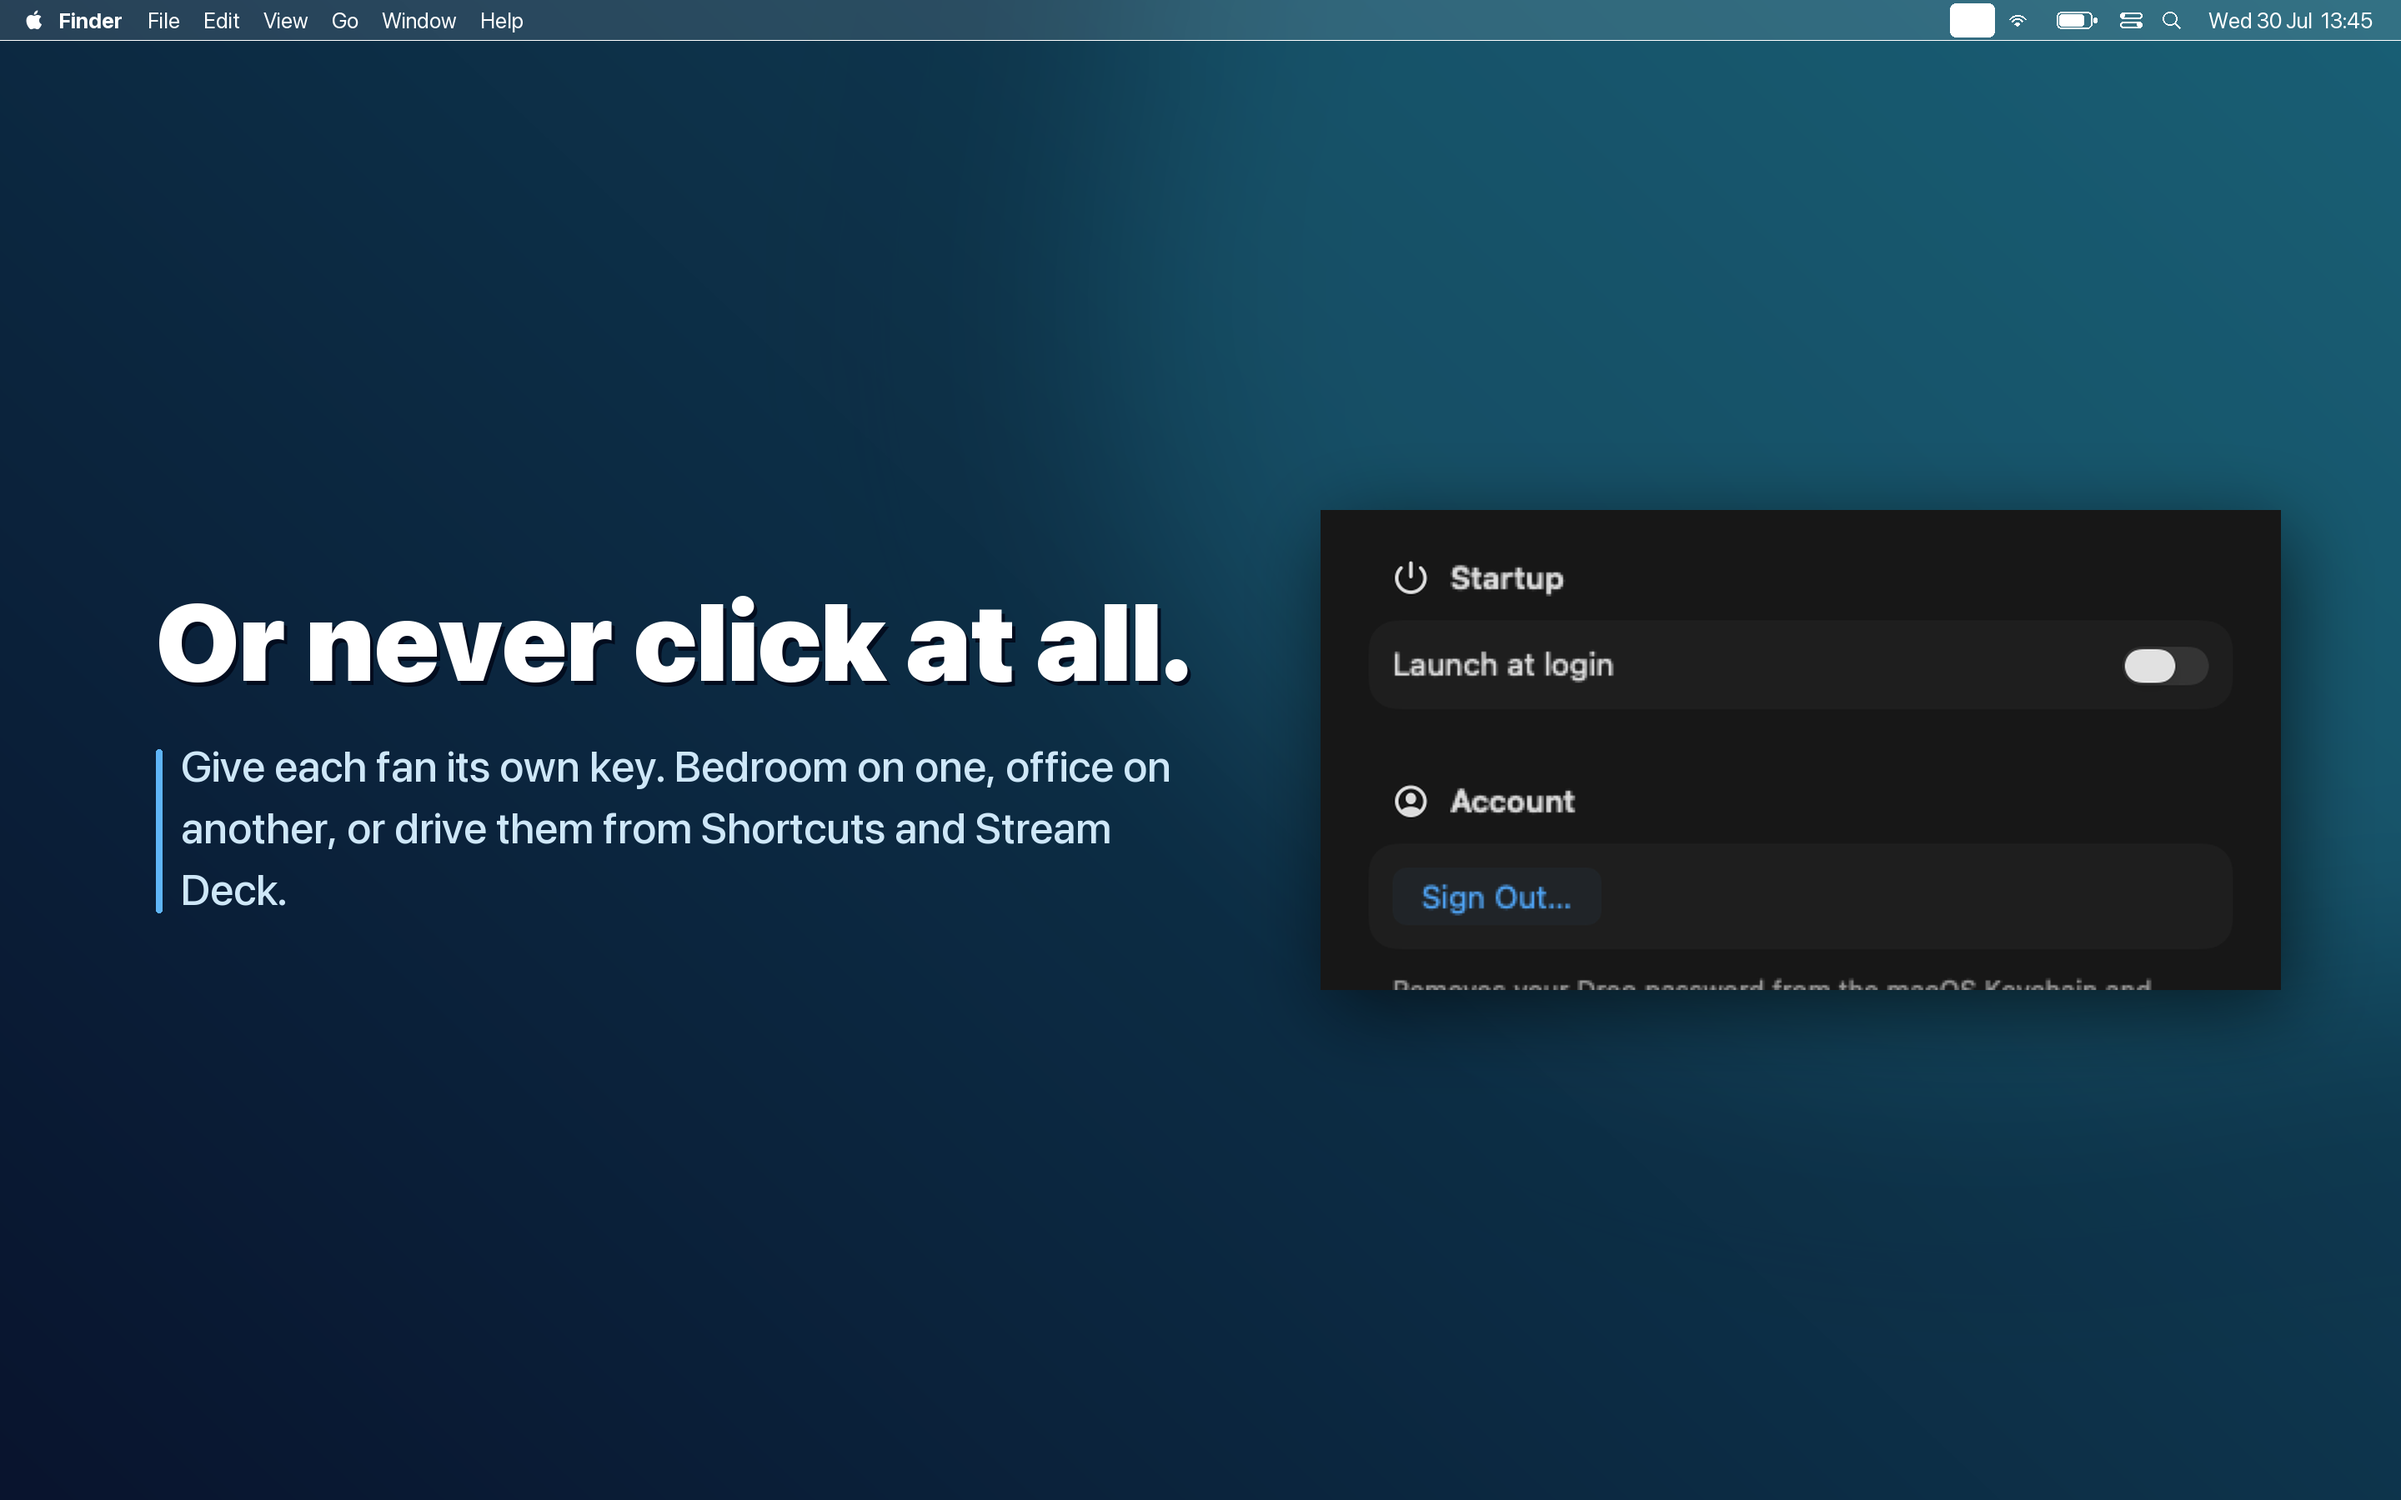
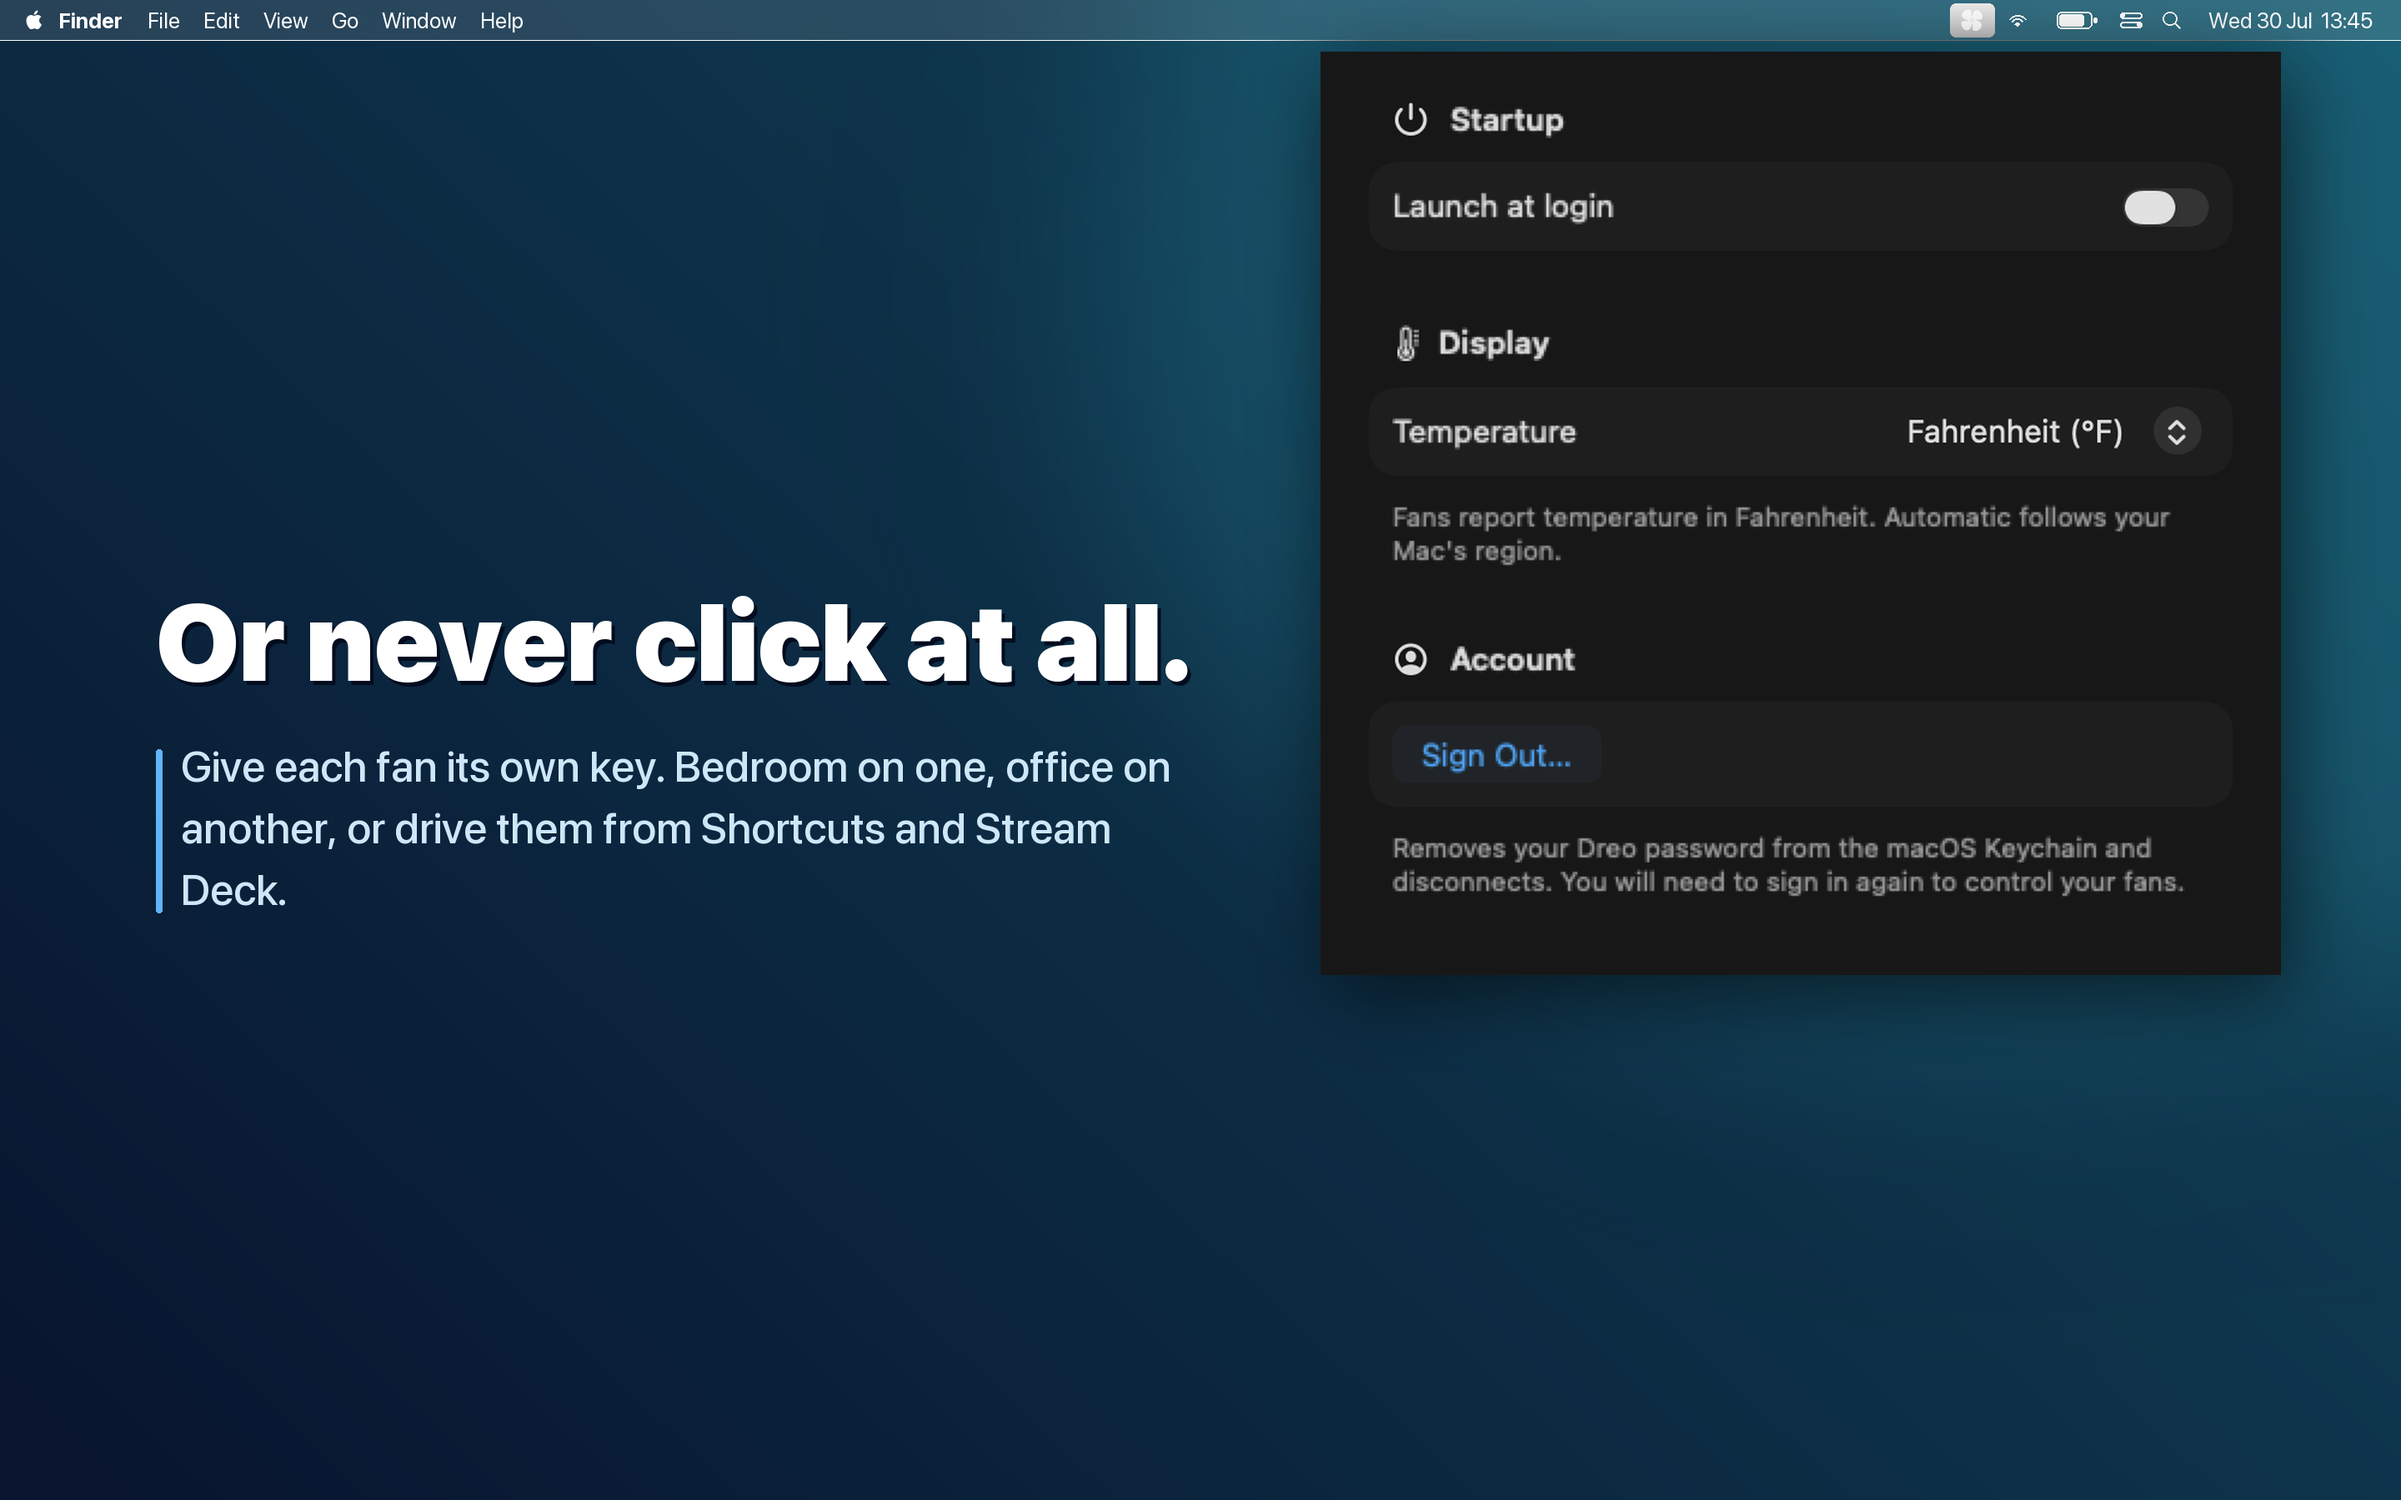
feat: choose between Celsius and Fahrenheit
Asked for on Reddit by a user whose fan reports a number with no unit on it.

Dreo sends `temperature` in Fahrenheit and documents that nowhere: there is no
unit field on the payload and no unit control in any device template. The
evidence is hass-dreo, the Home Assistant integration this project already
credits, which publishes the raw value as UnitOfTemperature.FAHRENHEIT and
converts nothing.

The default follows the Mac's region, so most people get the right scale
without opening Preferences, and the picker overrides it either way. The
reading now names its scale ("74°F", not "74°"), because a bare degree sign
next to a middot means one thing to an American and another to everyone else,
which is the ambiguity worth removing.

Conversion goes through Measurement/UnitTemperature rather than arithmetic
here, and rounds rather than truncates: truncation reads a degree low, and
below freezing it rounds the wrong way entirely.

The settings window grew a section and its height is fixed, so it was raised
to match. At the old 200pt the new picker pushed Sign Out clean off the
window with no scrollbar to suggest anything was missing.

The screenshot harness pins Fahrenheit. The default follows the machine's
region, so store frames would otherwise say 74°F or 23°C depending on who
built them.

diff --git a/WindbarTests/TemperatureUnitTests.swift b/WindbarTests/TemperatureUnitTests.swift
@@ -1,0 +1,57 @@
+import XCTest
+@testable import Windbar
+
+/// The fan sends Fahrenheit. Everything here is about what the user is shown.
+final class TemperatureUnitTests: XCTestCase {
+
+    func test_fahrenheit_showsTheFanReadingUnchanged() {
+        XCTAssertEqual(TemperatureUnit.fahrenheit.format(fahrenheit: 74), "74°F")
+    }
+
+    func test_celsius_convertsFromTheFahrenheitTheFanSends() {
+        // 74°F is 23.33°C, and the reading is shown as whole degrees.
+        XCTAssertEqual(TemperatureUnit.celsius.format(fahrenheit: 74), "23°C")
+        // 32°F is the freezing point, the one value both scales agree on.
+        XCTAssertEqual(TemperatureUnit.celsius.format(fahrenheit: 32), "0°C")
+    }
+
+    /// Rounds rather than truncates. 71°F is 21.67°C, which truncation would
+    /// show as 21° and put the reading a degree below the room.
+    func test_celsius_roundsRatherThanTruncating() {
+        XCTAssertEqual(TemperatureUnit.celsius.format(fahrenheit: 71), "22°C")
+    }
+
+    /// Below freezing the two disagree in sign, and truncating toward zero
+    /// would round the wrong way. 20°F is -6.67°C, not -6°C.
+    func test_celsius_roundsCorrectlyBelowZero() {
+        XCTAssertEqual(TemperatureUnit.celsius.format(fahrenheit: 20), "-7°C")
+    }
+
+    /// The unit is always written out. "23°" alone next to a middot reads as
+    /// Fahrenheit to an American and Celsius to everyone else, which is the
+    /// ambiguity this whole preference exists to remove.
+    func test_everyUnitNamesItself() {
+        for unit in TemperatureUnit.allCases {
+            let shown = unit.format(fahrenheit: 74)
+            XCTAssertTrue(shown.hasSuffix("C") || shown.hasSuffix("F"),
+                          "\(unit) rendered \(shown) without naming a scale")
+        }
+    }
+
+    /// Old settings blobs predate this key and must still load. Getting this
+    /// wrong once already reset every user's presets and onboarding flag.
+    func test_settingsWithoutTheKeyStillDecode() throws {
+        let json = Data(#"{"hasCompletedOnboarding":true}"#.utf8)
+        let settings = try JSONDecoder().decode(AppSettings.self, from: json)
+        XCTAssertEqual(settings.temperatureUnit, .automatic)
+        XCTAssertTrue(settings.hasCompletedOnboarding)
+    }
+
+    func test_theChoiceSurvivesASaveAndLoad() throws {
+        var settings = AppSettings.default
+        settings.temperatureUnit = .celsius
+        let restored = try JSONDecoder().decode(
+            AppSettings.self, from: JSONEncoder().encode(settings))
+        XCTAssertEqual(restored.temperatureUnit, .celsius)
+    }
+}

diff --git a/Windbar/Models/TemperatureUnit.swift b/Windbar/Models/TemperatureUnit.swift
@@ -1,0 +1,54 @@
+import Foundation
+
+/// How to display the temperature a fan reports.
+///
+/// Dreo sends `temperature` in Fahrenheit and says so nowhere: there is no
+/// unit field on the payload and no unit control in any device template. The
+/// evidence is hass-dreo, the Home Assistant integration this project already
+/// credits, which publishes the raw value as
+/// `native_unit_of_measurement=UnitOfTemperature.FAHRENHEIT` and applies no
+/// conversion of its own. So Fahrenheit is the wire unit, and anything else
+/// shown is this app converting.
+enum TemperatureUnit: String, Codable, CaseIterable, Sendable {
+    /// Follow the Mac's own region setting. The default, because it is right
+    /// for most people without them finding this preference at all.
+    case automatic
+    case celsius
+    case fahrenheit
+
+    var label: String {
+        switch self {
+        case .automatic: "Automatic"
+        case .celsius: "Celsius (°C)"
+        case .fahrenheit: "Fahrenheit (°F)"
+        }
+    }
+
+    /// What `automatic` resolves to on this Mac.
+    ///
+    /// `Locale.measurementSystem` is the honest source: a US locale means
+    /// Fahrenheit, everywhere else means Celsius. Read at call time rather
+    /// than cached, so changing the region in System Settings is reflected
+    /// without relaunching.
+    private var resolved: UnitTemperature {
+        switch self {
+        case .celsius: .celsius
+        case .fahrenheit: .fahrenheit
+        case .automatic: Locale.current.measurementSystem == .us ? .fahrenheit : .celsius
+        }
+    }
+
+    /// Formats a Fahrenheit reading from the fan for display.
+    ///
+    /// Rounded to whole degrees on purpose. The sensor sits inside a moving
+    /// fan and is documented as inaccurate by every integration that exposes
+    /// it, so a decimal place would be false precision.
+    func format(fahrenheit: Int) -> String {
+        let measurement = Measurement(value: Double(fahrenheit), unit: UnitTemperature.fahrenheit)
+        let degrees = measurement.converted(to: resolved).value.rounded()
+        // Formatted by hand rather than with MeasurementFormatter: that
+        // inserts a space before the symbol ("23 °C"), and this string sits in
+        // a cramped menu bar line next to a middot separator.
+        return "\(Int(degrees))°\(resolved == .fahrenheit ? "F" : "C")"
+    }
+}

diff --git a/Windbar/Models/AppSettings.swift b/Windbar/Models/AppSettings.swift
@@ -10,21 +10,28 @@ struct AppSettings: Codable, Equatable, Sendable {
     /// list of named shortcuts; the dict is empty (and reads back as `[]`
     /// after a fresh install) until the user saves one.
     var presetsBySerialNumber: [String: [DevicePreset]]
+    /// Display unit for the temperature a fan reports. Defaults to following
+    /// the Mac's region, which is right for most people without them ever
+    /// opening Preferences.
+    var temperatureUnit: TemperatureUnit
 
     static let `default` = AppSettings(
         lastSelectedDeviceSerialNumber: nil,
         hasCompletedOnboarding: false,
-        presetsBySerialNumber: [:]
+        presetsBySerialNumber: [:],
+        temperatureUnit: .automatic
     )
 
     init(
         lastSelectedDeviceSerialNumber: String?,
         hasCompletedOnboarding: Bool,
-        presetsBySerialNumber: [String: [DevicePreset]]
+        presetsBySerialNumber: [String: [DevicePreset]],
+        temperatureUnit: TemperatureUnit = .automatic
     ) {
         self.lastSelectedDeviceSerialNumber = lastSelectedDeviceSerialNumber
         self.hasCompletedOnboarding = hasCompletedOnboarding
         self.presetsBySerialNumber = presetsBySerialNumber
+        self.temperatureUnit = temperatureUnit
     }
 
     /// Decodes a key at a time so an older settings blob still loads.
@@ -44,5 +51,7 @@ struct AppSettings: Codable, Equatable, Sendable {
             Bool.self, forKey: .hasCompletedOnboarding) ?? false
         presetsBySerialNumber = try container.decodeIfPresent(
             [String: [DevicePreset]].self, forKey: .presetsBySerialNumber) ?? [:]
+        temperatureUnit = try container.decodeIfPresent(
+            TemperatureUnit.self, forKey: .temperatureUnit) ?? .automatic
     }
 }

diff --git a/Windbar/Views/Settings/SettingsView.swift b/Windbar/Views/Settings/SettingsView.swift
@@ -18,6 +18,23 @@ struct SettingsView: View {
                 Label("Startup", systemImage: "power")
             }
 
+            Section {
+                Picker("Temperature", selection: Binding(
+                    get: { appModel.settings.temperatureUnit },
+                    set: { appModel.settings.temperatureUnit = $0 }
+                )) {
+                    ForEach(TemperatureUnit.allCases, id: \.self) { unit in
+                        Text(unit.label).tag(unit)
+                    }
+                }
+            } header: {
+                Label("Display", systemImage: "thermometer.medium")
+            } footer: {
+                Text("Fans report temperature in Fahrenheit. Automatic follows your Mac's region.")
+                    .font(Theme.Font.caption)
+                    .foregroundStyle(.secondary)
+            }
+
             #if DEBUG && WINDBAR_DONATIONS
             donationPreview
             #endif
@@ -35,10 +52,14 @@ struct SettingsView: View {
             }
         }
         .formStyle(.grouped)
+        // Tall enough for every section, including the last one. The height is
+        // fixed, so adding a section without raising it pushes the bottom of
+        // the form off the window: at 200pt the Temperature picker hid Sign
+        // Out entirely, with no scrollbar to suggest anything was missing.
         #if DEBUG && WINDBAR_DONATIONS
-        .frame(width: 400, height: 360)
+        .frame(width: 400, height: 560)
         #else
-        .frame(width: 400, height: 200)
+        .frame(width: 400, height: 385)
         #endif
         // Confirm first: this discards a password the user may not remember, and there
         // is no undo.

diff --git a/Windbar/Views/MenuBar/DeviceHeaderView.swift b/Windbar/Views/MenuBar/DeviceHeaderView.swift
@@ -18,6 +18,9 @@ struct DeviceHeaderView: View {
     /// collapse is a control that does nothing.
     var isCollapsible = false
     var isExpanded = true
+    /// Display unit for the reading below. Passed in rather than read from a
+    /// shared settings object so this view stays previewable and testable.
+    var temperatureUnit: TemperatureUnit = .automatic
     var onToggleExpanded: () -> Void = {}
     let onCopyTriggerLink: () -> Void
     let onCopyDeviceReport: () -> Void
@@ -113,20 +116,23 @@ struct DeviceHeaderView: View {
         } else if isExpanded {
             HStack(spacing: 5) {
                 Text(device.model)
-                if let temperature = device.state["temperature"]?.intValue {
-                    Text("·")
-                    Text("\(temperature)°").monospacedDigit()
-                }
+                temperature
             }
         } else {
             HStack(spacing: 5) {
                 Text(device.isOn ? runningSummary : "Off")
                     .monospacedDigit()
-                if let temperature = device.state["temperature"]?.intValue {
-                    Text("·")
-                    Text("\(temperature)°").monospacedDigit()
-                }
+                temperature
             }
+        }
+    }
+
+    /// The fan sends Fahrenheit; `temperatureUnit` decides what is shown.
+    @ViewBuilder
+    private var temperature: some View {
+        if let reading = device.state["temperature"]?.intValue {
+            Text("·")
+            Text(temperatureUnit.format(fahrenheit: reading)).monospacedDigit()
         }
     }
 

diff --git a/WindbarTests/ScreenshotHarness.swift b/WindbarTests/ScreenshotHarness.swift
@@ -106,6 +106,11 @@ final class ScreenshotHarness: XCTestCase {
             settingsRepository: SettingsRepositoryFake()
         )
         await model.start()
+        // Pinned, because the default follows the Mac's region: the same
+        // render would produce 74°F here and 23°C on a machine set to another
+        // country, so the store frames would quietly change depending on who
+        // built them. Fahrenheit matches the en-US listing these go to.
+        model.settings.temperatureUnit = .fahrenheit
         return model
     }
 

diff --git a/Windbar/Views/MenuBar/DeviceControlView.swift b/Windbar/Views/MenuBar/DeviceControlView.swift
@@ -176,6 +176,7 @@ struct DeviceControlView: View {
             device: device,
             isCollapsible: isCollapsible,
             isExpanded: isExpanded,
+            temperatureUnit: appModel.settings.temperatureUnit,
             onToggleExpanded: onToggleExpanded,
             onCopyTriggerLink: copyTriggerLink,
             onCopyDeviceReport: copyDeviceReport,
